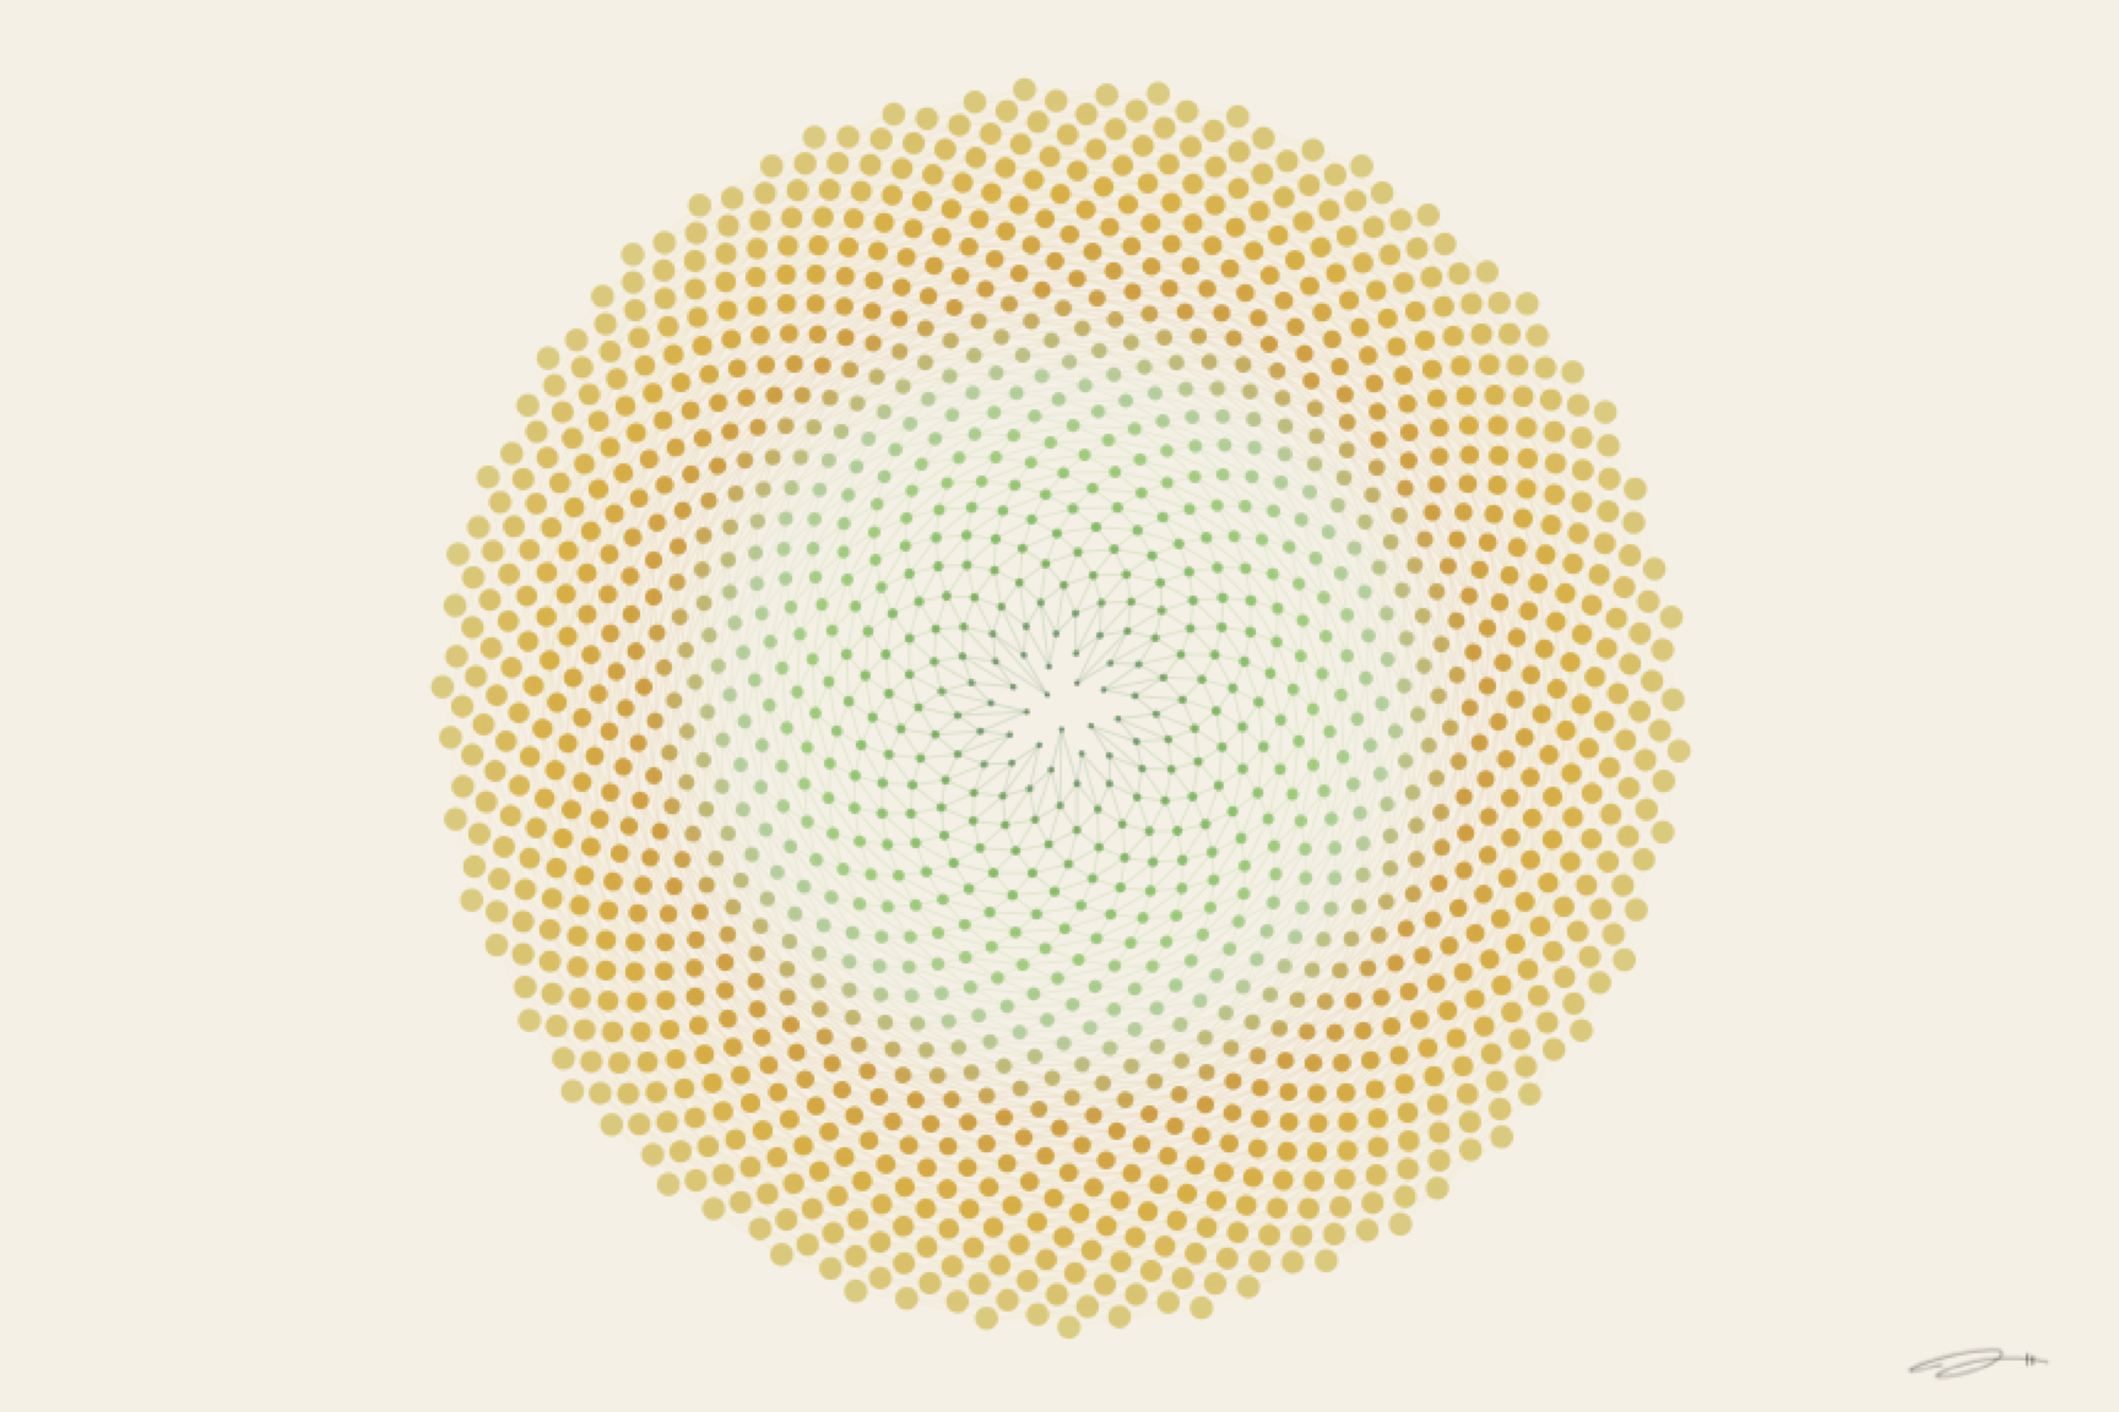
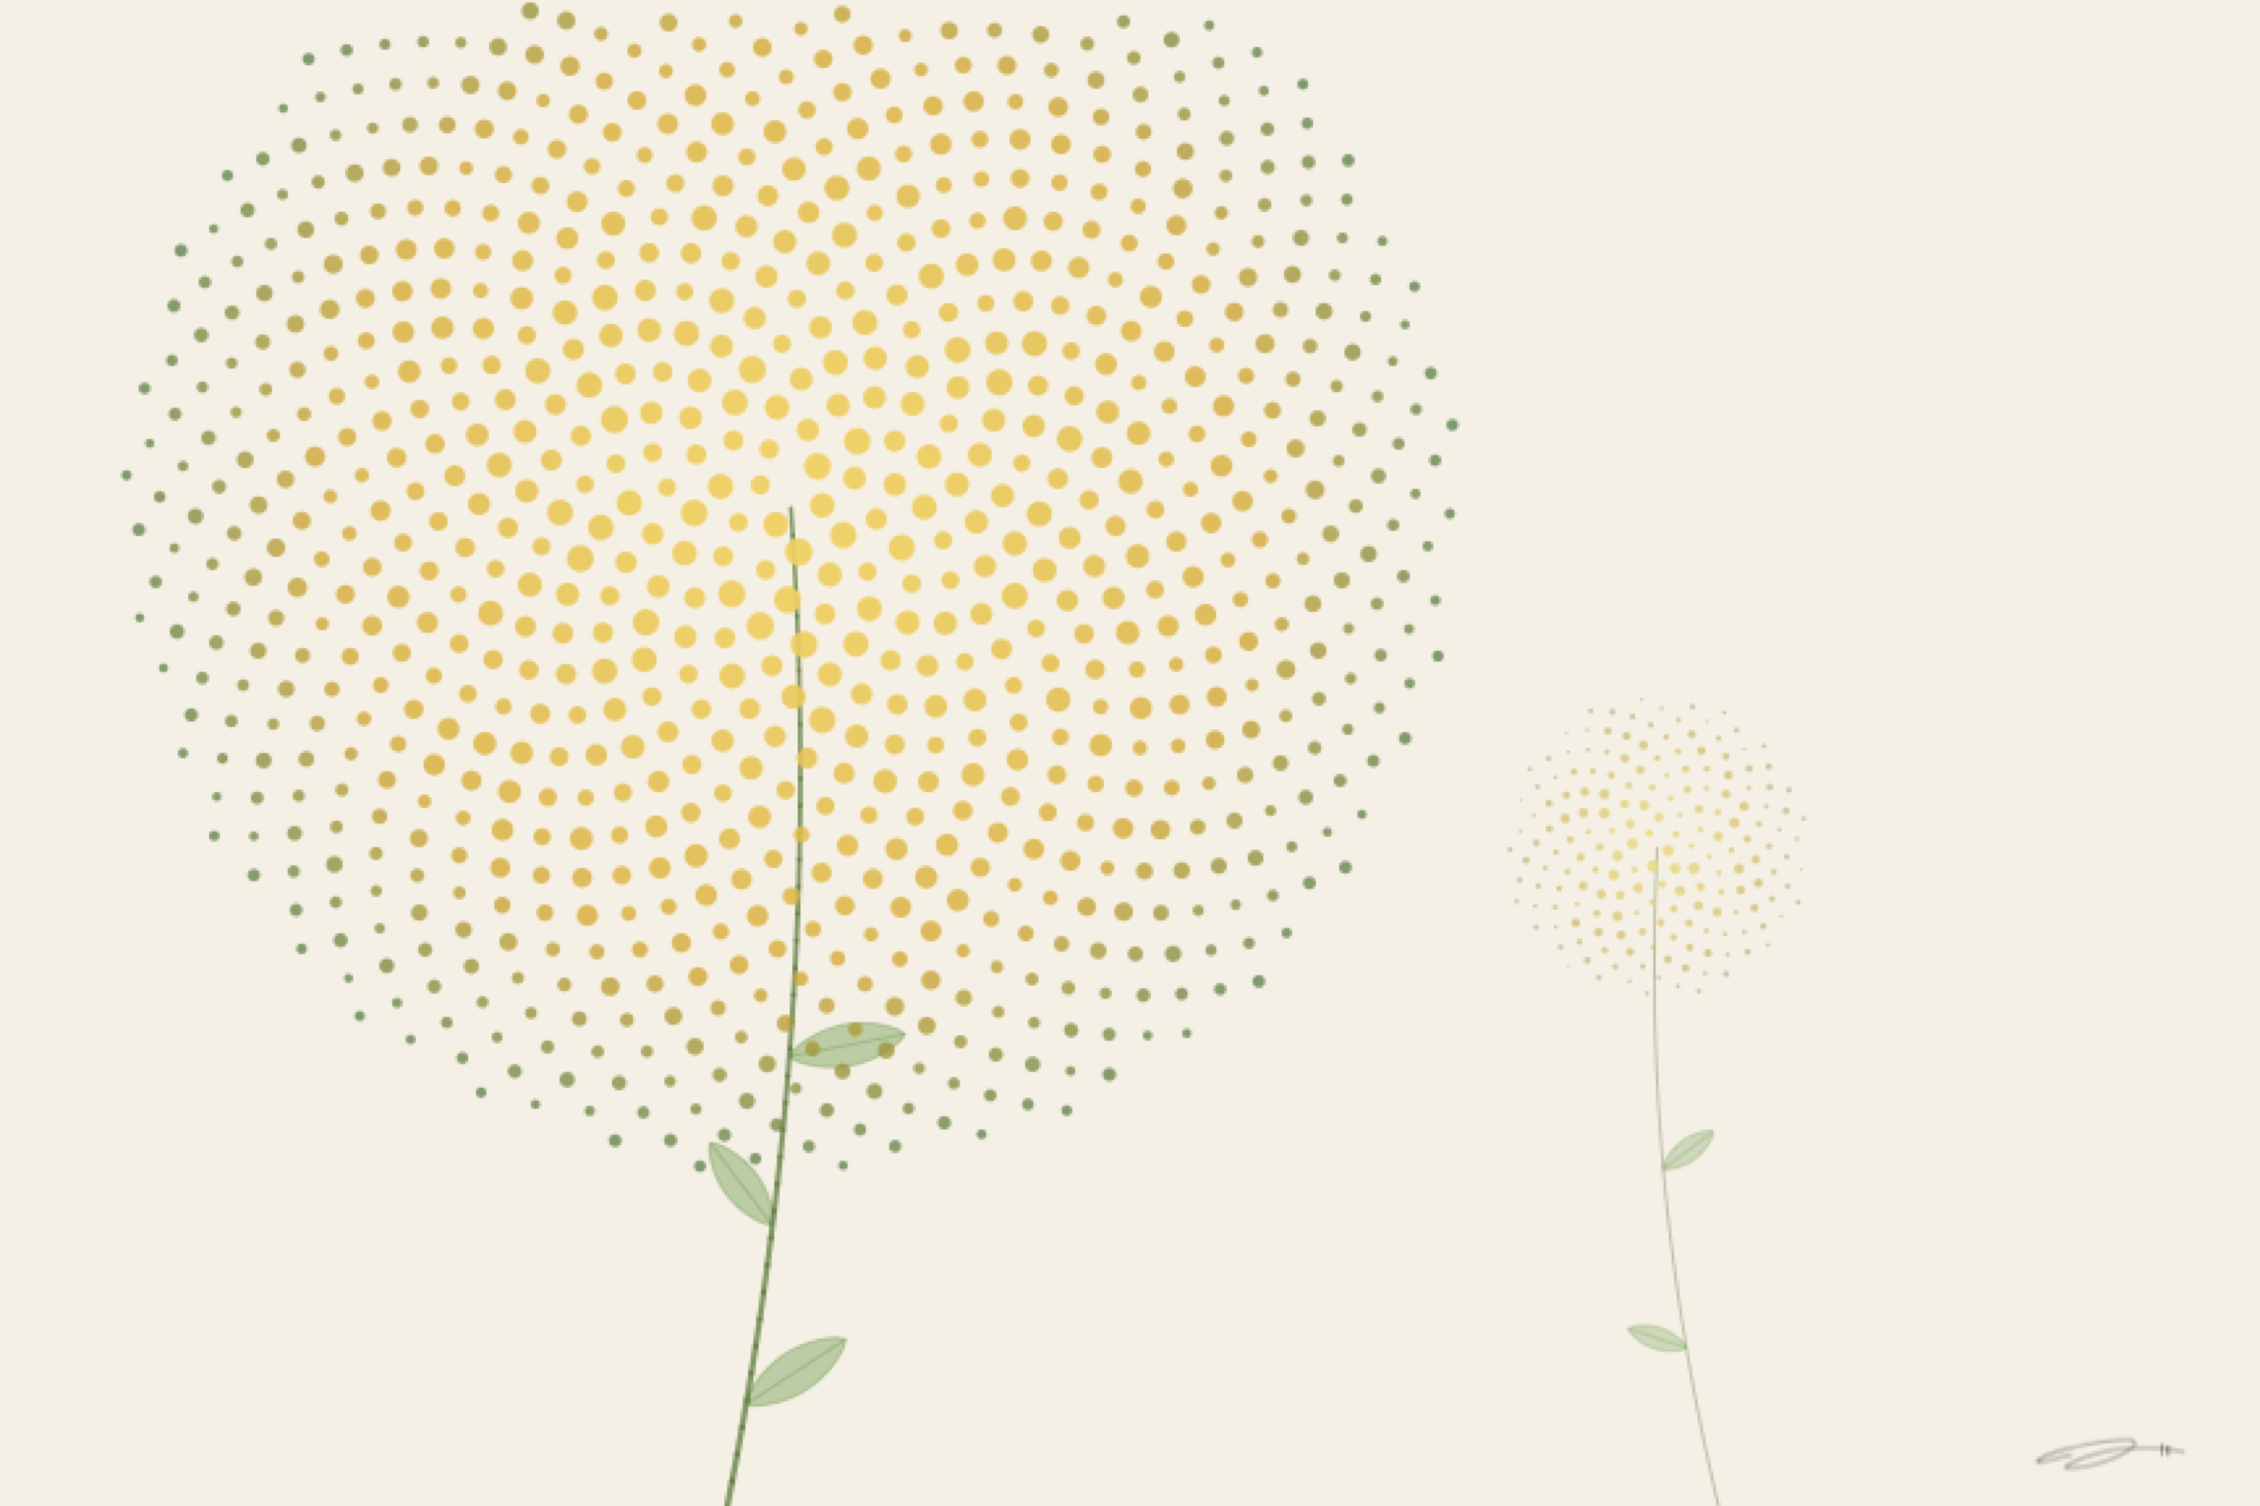
Add Growth: Phyllotaxis — parent/child sunflower pair with golden-angle spirals

Changed region(s): [[0.0622, 0.0, 0.8089, 1.0], [0.7156, 0.875, 0.7467, 0.9062]]

diff --git a/src/data/series.ts b/src/data/series.ts
@@ -136,6 +136,7 @@ export const series: Series[] = [
       { id: "growth-branch", title: "Branch", series: "growth", equation: "A→F[−θA][+θA], 13 levels, θ=35°, r=0.82", description: "One rule, applied again and again: branch left, branch right. Thirteen levels deep, and a canopy emerges — alive, complex, unmistakably a tree. All of it from three characters of code. I watched it build itself and thought: that's how growth works.", emotionalNote: "Three characters of code, infinite complexity", background: "#F5F0E6", imageUrl: "/prints/growth/growth_branch.jpg", gumroadUrl: "https://gumroad.com/l/placeholder", price: 45 },
       { id: "growth-arise", title: "Arise", series: "growth", equation: "x(t) = x₀ − d·α·t, y(t) = y₀ + H·t", description: "Thirty-four lines rising from a spread base, each one leaning a little closer to center as it climbs. Something reaching upward, converging toward a light it can sense but not see. I didn't plan the convergence — the phototropism equation just does that. Things that are growing lean toward what nurtures them.", emotionalNote: "Reaching upward, converging toward light", background: "#F5F0E6", imageUrl: "/prints/growth/growth_arise.jpg", gumroadUrl: "https://gumroad.com/l/placeholder", price: 45 },
       { id: "growth-mycelium", title: "Mycelium", series: "growth", equation: "SC(attract, kill, step) + nutrient zones", description: "A single spore finds its way. One origin point sends hyphae branching outward, thick trunks tapering to gossamer tips, shifting color each time the network discovers a new nutrient zone. Built from the space colonization algorithm — the same logic real fungi use to claim territory underground.", emotionalNote: "The hidden network that connects everything underground", background: "#F5F0E6", imageUrl: "/prints/growth/growth_mycelium.jpg", gumroadUrl: "https://gumroad.com/l/placeholder", price: 45 },
+      { id: "growth-phyllotaxis", title: "Phyllotaxis", series: "growth", equation: "r = c√n, θ = n × 137.508°", description: "Two sunflowers — one full and heavy, one barely started — leaning toward each other on curved stems. Same rule driving both: each seed placed at the golden angle, spiraling outward. Nine hundred seeds packed tight in the parent bloom. A hundred and eighty in the young one, still finding its shape. I kept staring at the small one. Same mathematics, just earlier in the story.", emotionalNote: "Same rule, different scale — parent and child", background: "#F5F0E6", imageUrl: "/prints/growth/growth_phyllotaxis.jpg", gumroadUrl: "https://gumroad.com/l/placeholder", price: 45 },
     ],
     bundleGumroadUrl: "https://gumroad.com/l/placeholder-growth-bundle",
     bundlePrice: 169,

diff --git a/mathematical_affect/pieces/growth/growth_phyllotaxis.py b/mathematical_affect/pieces/growth/growth_phyllotaxis.py
@@ -1,16 +1,17 @@
 """
 Geometry of Feeling — Growth: Phyllotaxis
-Golden-angle spirals — each element placed 137.508° from the last.
-Fibonacci spirals traced through the arrangement. The same rule
-sunflowers use to pack seeds, rendered as botanical geometry.
+Two sunflower spirals — one mature, one just beginning —
+leaning toward each other on curved stems. Vogel's model:
+r = c√n, θ = n × 137.508°. The golden angle packs seeds
+the way nature does. Parent and child, same rule, different scale.
 """
 
-import os
-import numpy as np
-import matplotlib
 import sys as _sys; import os as _os
 _sys.path.insert(0, _os.path.join(_os.path.dirname(_os.path.abspath(__file__)), ".."))
 from signature_utils import add_signature
+import os
+import numpy as np
+import matplotlib
 matplotlib.use('Agg')
 import matplotlib.pyplot as plt
 from matplotlib.collections import LineCollection
@@ -18,111 +19,223 @@ from matplotlib.collections import LineCollection
 SCRIPT_DIR = os.path.dirname(os.path.abspath(__file__))
 OUTPUT_DIR = os.path.join(SCRIPT_DIR, '..', '..', 'output')
 
-DPI = 300
+DPI = 320
 FIG_W = 12
 FIG_H = 8
 BG_COLOR = '#F5F0E6'
 
-GOLDEN_ANGLE = 137.50776405  # degrees
+GOLDEN_ANGLE = 137.50776405003785
+STEM_COLOR = '#5A7A3A'
+LEAF_COLOR = '#6A9A4A'
 
-def hex_to_rgb01(h):
-    h = h.lstrip("#")
-    return np.array([int(h[i:i+2], 16) for i in (0, 2, 4)]) / 255.0
 
-def blend(c1, c2, t):
-    return (1 - t) * np.asarray(c1) + t * np.asarray(c2)
+def hex_to_rgb(h):
+    h = h.lstrip('#')
+    return tuple(int(h[i:i+2], 16) / 255.0 for i in (0, 2, 4))
 
-def interpolate_palette(colors, u):
-    colors = [np.asarray(c) for c in colors]
-    u = np.clip(u, 0.0, 1.0)
-    if u <= 0:
-        return colors[0]
-    if u >= 1:
-        return colors[-1]
-    pos = u * (len(colors) - 1)
-    i = int(np.floor(pos))
-    frac = pos - i
-    return blend(colors[i], colors[i + 1], frac)
+
+def lerp_color(c1, c2, t):
+    r1, g1, b1 = hex_to_rgb(c1)
+    r2, g2, b2 = hex_to_rgb(c2)
+    t = np.clip(t, 0, 1)
+    return (r1 + (r2-r1)*t, g1 + (g2-g1)*t, b1 + (b2-b1)*t)
+
+
+def bezier_point(p0, p1, p2, t):
+    return ((1-t)**2 * p0[0] + 2*(1-t)*t * p1[0] + t**2 * p2[0],
+            (1-t)**2 * p0[1] + 2*(1-t)*t * p1[1] + t**2 * p2[1])
+
+
+def draw_stem(ax, base_x, base_y, head_x, head_y, thickness, color, alpha,
+              lean=0.0):
+    n_pts = 40
+    t = np.linspace(0, 1, n_pts)
+    mid_x = (base_x + head_x) / 2 + lean
+    mid_y = (base_y + head_y) / 2
+    p0 = (base_x, base_y)
+    p1 = (mid_x, mid_y)
+    p2 = (head_x, head_y)
+
+    sx = (1-t)**2 * p0[0] + 2*(1-t)*t * p1[0] + t**2 * p2[0]
+    sy = (1-t)**2 * p0[1] + 2*(1-t)*t * p1[1] + t**2 * p2[1]
+
+    pts = np.array([sx, sy]).T.reshape(-1, 1, 2)
+    segs = np.concatenate([pts[:-1], pts[1:]], axis=1)
+    widths = thickness * (1.0 - t[:-1] * 0.35)
+    colors_arr = [(*hex_to_rgb(color), alpha)] * len(segs)
+
+    lc = LineCollection(segs, linewidths=widths, colors=colors_arr,
+                        capstyle='round', joinstyle='round', zorder=3)
+    ax.add_collection(lc)
+    return p0, p1, p2
+
+
+def draw_leaf_on_stem(ax, stem_p0, stem_p1, stem_p2, t_pos, side, length,
+                      width, color, alpha, rng):
+    stem_x, stem_y = bezier_point(stem_p0, stem_p1, stem_p2, t_pos)
+    dx = 2*(1-t_pos)*(stem_p1[0]-stem_p0[0]) + 2*t_pos*(stem_p2[0]-stem_p1[0])
+    dy = 2*(1-t_pos)*(stem_p1[1]-stem_p0[1]) + 2*t_pos*(stem_p2[1]-stem_p1[1])
+    tangent_angle = np.arctan2(dy, dx)
+    leaf_angle = tangent_angle + side * (np.pi/3 + rng.uniform(-0.3, 0.3))
+
+    tip_x = stem_x + length * np.cos(leaf_angle)
+    tip_y = stem_y + length * np.sin(leaf_angle)
+
+    n = 20
+    t = np.linspace(0, 1, n)
+    nx_ = -np.sin(leaf_angle)
+    ny_ = np.cos(leaf_angle)
+    w_profile = np.sin(np.pi * t) ** 0.7 * width
+
+    lx = stem_x + t * (tip_x - stem_x)
+    ly = stem_y + t * (tip_y - stem_y)
+    ux = lx + nx_ * w_profile * 0.5
+    uy = ly + ny_ * w_profile * 0.5
+    lbx = lx - nx_ * w_profile * 0.5
+    lby = ly - ny_ * w_profile * 0.5
+
+    leaf_x = np.concatenate([ux, lbx[::-1]])
+    leaf_y = np.concatenate([uy, lby[::-1]])
+
+    ax.fill(leaf_x, leaf_y, color=(*hex_to_rgb(color), alpha * 0.55), zorder=2)
+    ax.plot(lx, ly, '-', color=(*hex_to_rgb(color), alpha * 0.7),
+            linewidth=0.35, zorder=2)
+
+
+def draw_phyllotaxis(ax, cx, cy, n_seeds, scale, color_inner, color_mid,
+                     color_outer, max_size, min_size, alpha_base, rng,
+                     angle_offset=0, size_variation=0.25, overlap_centers=None):
+    ns = np.arange(1, n_seeds + 1)
+    r = scale * np.sqrt(ns)
+    theta = np.radians(ns * GOLDEN_ANGLE + angle_offset)
+
+    x = cx + r * np.cos(theta)
+    y = cy + r * np.sin(theta)
+    fracs = ns / n_seeds
+
+    for i in range(len(ns)):
+        if not (0.05 < x[i] < FIG_W - 0.05 and 0.05 < y[i] < FIG_H - 0.05):
+            continue
+
+        f = fracs[i]
+        if f < 0.5:
+            col = lerp_color(color_inner, color_mid, f * 2)
+        else:
+            col = lerp_color(color_mid, color_outer, (f - 0.5) * 2)
+
+        base_size = max_size * (1.0 - f * 0.55)
+        jitter = rng.uniform(1.0 - size_variation, 1.0 + size_variation)
+        s = max(min_size, base_size * jitter)
+
+        alpha = alpha_base - f * 0.28
+        alpha = max(0.12, alpha)
+
+        in_overlap = False
+        if overlap_centers:
+            for (ox, oy, o_r) in overlap_centers:
+                dist = np.sqrt((x[i] - ox)**2 + (y[i] - oy)**2)
+                if dist < o_r:
+                    in_overlap = True
+                    break
+
+        if in_overlap:
+            s *= 0.82
+            alpha *= 0.70
+            col = (col[0] * 0.8 + 0.2 * 0.95,
+                   col[1] * 0.8 + 0.2 * 0.82,
+                   col[2] * 0.8 + 0.2 * 0.38)
+
+        ax.plot(x[i], y[i], 'o', color=(*col, alpha),
+                markersize=s, markeredgewidth=0, zorder=5)
+
+
+def get_bloom_radius(n_seeds, scale):
+    return scale * np.sqrt(n_seeds)
+
+
+# ── Flower definitions (parent/child — E variant) ──
+
+FLOWERS = [
+    {   # Large mature bloom — left, leaning slightly right
+        'x': 4.2, 'y': 5.3, 'base_x': 3.8, 'lean': 0.4,
+        'n_seeds': 900, 'scale': 0.118, 'max_size': 9.0, 'min_size': 2.0,
+        'size_variation': 0.22,
+        'color_inner': '#F0D060', 'color_mid': '#D4A832', 'color_outer': '#3A6A2A',
+        'stem_width': 2.4, 'leaf_size': 0.65, 'alpha': 0.92, 'stem_alpha': 0.75,
+        'leaf_positions': [0.15, 0.32, 0.48], 'leaf_sides': [-1, 1, -1],
+    },
+    {   # Small emerging bloom — right, leaning slightly left
+        'x': 8.8, 'y': 3.5, 'base_x': 9.2, 'lean': -0.3,
+        'n_seeds': 180, 'scale': 0.060, 'max_size': 3.5, 'min_size': 0.5,
+        'size_variation': 0.38,
+        'color_inner': '#E8D878', 'color_mid': '#C8B050', 'color_outer': '#8A9A6A',
+        'stem_width': 0.8, 'leaf_size': 0.28, 'alpha': 0.75, 'stem_alpha': 0.50,
+        'leaf_positions': [0.30, 0.55], 'leaf_sides': [1, -1],
+    },
+]
+
 
 def render():
-    fig, ax = plt.subplots(figsize=(FIG_W, FIG_H), dpi=DPI, facecolor=BG_COLOR)
-    fig.subplots_adjust(0, 0, 1, 1)
-    ax.set_position([0, 0, 1, 1])
+    rng = np.random.RandomState(390)
+
+    fig = plt.figure(figsize=(FIG_W, FIG_H), dpi=DPI)
+    ax = fig.add_subplot(111)
+    fig.patch.set_facecolor(BG_COLOR)
     ax.set_facecolor(BG_COLOR)
-    ax.set_xlim(0, 1)
-    ax.set_ylim(0, 1)
+    ax.set_xlim(0, FIG_W)
+    ax.set_ylim(0, FIG_H)
+    ax.set_aspect('equal')
     ax.axis('off')
 
-    bg_rgb = hex_to_rgb01(BG_COLOR)
+    # Pre-compute bloom info for overlap detection
+    bloom_info = [(f['x'], f['y'], get_bloom_radius(f['n_seeds'], f['scale']))
+                  for f in FLOWERS]
 
-    # Rich green-gold palette
-    palette_hex = ['#1A3A1A', '#1F4F1F', '#2D5A2D', '#3A6B3A',
-                   '#4A7C4A', '#5C9A3A', '#6BAF4A', '#8BC362',
-                   '#A8C890', '#C89028', '#D4A832', '#D8C878']
-    palette = [blend(hex_to_rgb01(h), bg_rgb, 0.04) for h in palette_hex]
+    # Draw smallest first (background), largest last (foreground)
+    order = sorted(range(len(FLOWERS)), key=lambda i: FLOWERS[i]['n_seeds'])
 
-    cx, cy = 0.50, 0.50
-    aspect = 8.0 / 12.0
-    n_elements = 1400
-    max_r = 0.44
+    for fi in order:
+        flower = FLOWERS[fi]
 
-    # Generate all positions
-    xs = np.zeros(n_elements)
-    ys = np.zeros(n_elements)
-    rs = np.zeros(n_elements)
+        # Stem
+        stem_ctrl = draw_stem(ax, flower['base_x'], -0.3,
+                              flower['x'], flower['y'],
+                              flower['stem_width'], STEM_COLOR,
+                              flower['stem_alpha'], lean=flower['lean'])
 
-    for n in range(n_elements):
-        theta = np.radians((n + 1) * GOLDEN_ANGLE)
-        r = max_r * np.sqrt((n + 1) / n_elements)
-        xs[n] = cx + r * np.cos(theta) * aspect
-        ys[n] = cy + r * np.sin(theta)
-        rs[n] = r
+        # Leaves
+        for t_pos, side in zip(flower['leaf_positions'], flower['leaf_sides']):
+            l_size = flower['leaf_size'] * rng.uniform(0.8, 1.2)
+            draw_leaf_on_stem(ax, stem_ctrl[0], stem_ctrl[1], stem_ctrl[2],
+                              t_pos, side, l_size, l_size * 0.35,
+                              LEAF_COLOR, flower['stem_alpha'], rng)
 
-    # --- Draw Fibonacci spiral curves ---
-    # Connect elements separated by Fibonacci numbers
-    for fib_step in [13, 21, 34]:
-        spiral_segs = []
-        spiral_colors = []
-        spiral_widths = []
+        # Overlap detection (other blooms)
+        other = [(bx, by, br * 0.7)
+                 for j, (bx, by, br) in enumerate(bloom_info) if j != fi]
 
-        for n in range(fib_step, n_elements):
-            dist = np.sqrt((xs[n] - xs[n - fib_step]) ** 2 +
-                           (ys[n] - ys[n - fib_step]) ** 2)
-            if dist < 0.08:
-                spiral_segs.append([(xs[n], ys[n]), (xs[n - fib_step], ys[n - fib_step])])
-                u = (rs[n] / max_r) ** 0.5
-                c = interpolate_palette(palette, u)
-                outer_frac = rs[n] / max_r
-                alpha = 0.06 + 0.18 * (1 - outer_frac) ** 0.5
-                w = 0.20 + 0.45 * (1 - outer_frac)
-                spiral_colors.append((*c, alpha))
-                spiral_widths.append(w)
+        # Phyllotaxis head
+        angle_offset = rng.uniform(0, 360)
+        draw_phyllotaxis(ax, flower['x'], flower['y'],
+                         flower['n_seeds'], flower['scale'],
+                         flower['color_inner'], flower['color_mid'],
+                         flower['color_outer'],
+                         flower['max_size'], flower['min_size'],
+                         flower['alpha'], rng,
+                         angle_offset=angle_offset,
+                         size_variation=flower['size_variation'],
+                         overlap_centers=other)
 
-        if spiral_segs:
-            lc = LineCollection(spiral_segs, colors=spiral_colors,
-                                linewidths=spiral_widths, capstyle='round')
-            ax.add_collection(lc)
-
-    # --- Draw seed elements ---
-    for n in range(n_elements):
-        u = (rs[n] / max_r) ** 0.50
-        c = interpolate_palette(palette, u)
-
-        # Size: small at center, larger at edges
-        frac = (n + 1) / n_elements
-        size = 2.0 + 7.5 * frac ** 0.50
-        alpha = 0.55 + 0.40 * frac ** 0.25
-
-        ax.plot(xs[n], ys[n], 'o', color=(*c, alpha),
-                markersize=size, markeredgewidth=0)
+    add_signature(fig, ax, BG_COLOR)
+    fig.subplots_adjust(left=0, right=1, top=1, bottom=0)
 
     os.makedirs(OUTPUT_DIR, exist_ok=True)
     pdf_path = os.path.join(OUTPUT_DIR, "growth_phyllotaxis.pdf")
-    add_signature(fig, ax, BG_COLOR)
-    fig.savefig(pdf_path, facecolor=BG_COLOR, dpi=DPI)
+    fig.savefig(pdf_path, format='pdf', facecolor=BG_COLOR)
     plt.close(fig)
     print(f"saved {pdf_path}")
     return pdf_path
+
 
 if __name__ == '__main__':
     render()
